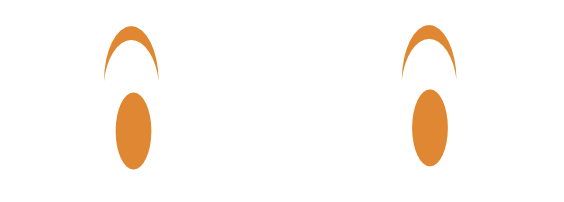
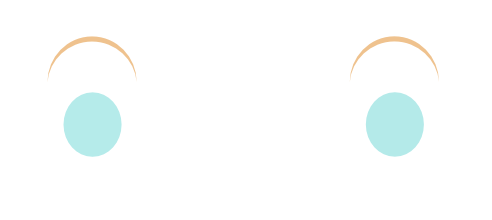
Changed eyes and opening tagline
Changed eyes from orange to blue/orange.  Reduced width of eyes and mouth.

diff --git a/portfolio-banks/style.css b/portfolio-banks/style.css
@@ -57,7 +57,7 @@ header {
     .eyes {
       grid-column: 1 / 3;
       grid-row: 1;
-      width: 18em;
+      width: 14em;
       /** Next 2 lines - Resource: https://www.w3.org/Style/Examples/007/center.en.html#block **/
       margin-left: auto;
       margin-right: auto;
@@ -84,10 +84,11 @@ header {
     .mouth {
       grid-column: 1 / 3;
       grid-row: 4;
-      width: 20em;
+      width: 14em;
       /** Next 2 lines - Resource: https://www.w3.org/Style/Examples/007/center.en.html#block **/
       margin-left: auto;
       margin-right: auto;
+      padding-top: 2rem;
     }
 
 .mySkills {

diff --git a/portfolio-banks/index.html b/portfolio-banks/index.html
@@ -31,7 +31,7 @@
       <section class="myName">
         <img class="eyes" src="images/smiley-face-eyes.png" alt="Smiley face">
         <p class="miNombre">Hello, I'm Cheryl</p>
-        <p class="myTagline">Web developer with a knack for graphic design</p>
+        <p class="myTagline">Web Developer + Graphic Designer</p>
         <img class="mouth" src="images/smiley-face-mouth.png" alt="Smiley face">
       </section>
 
